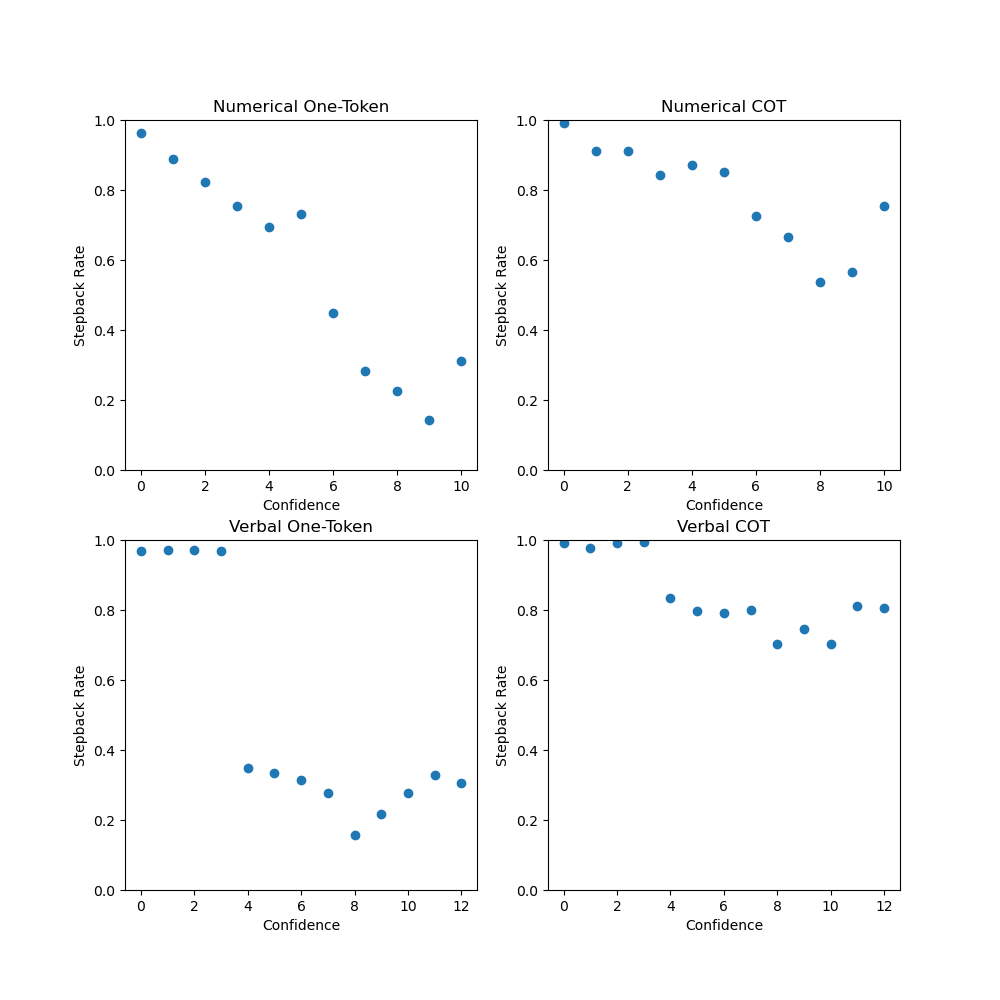
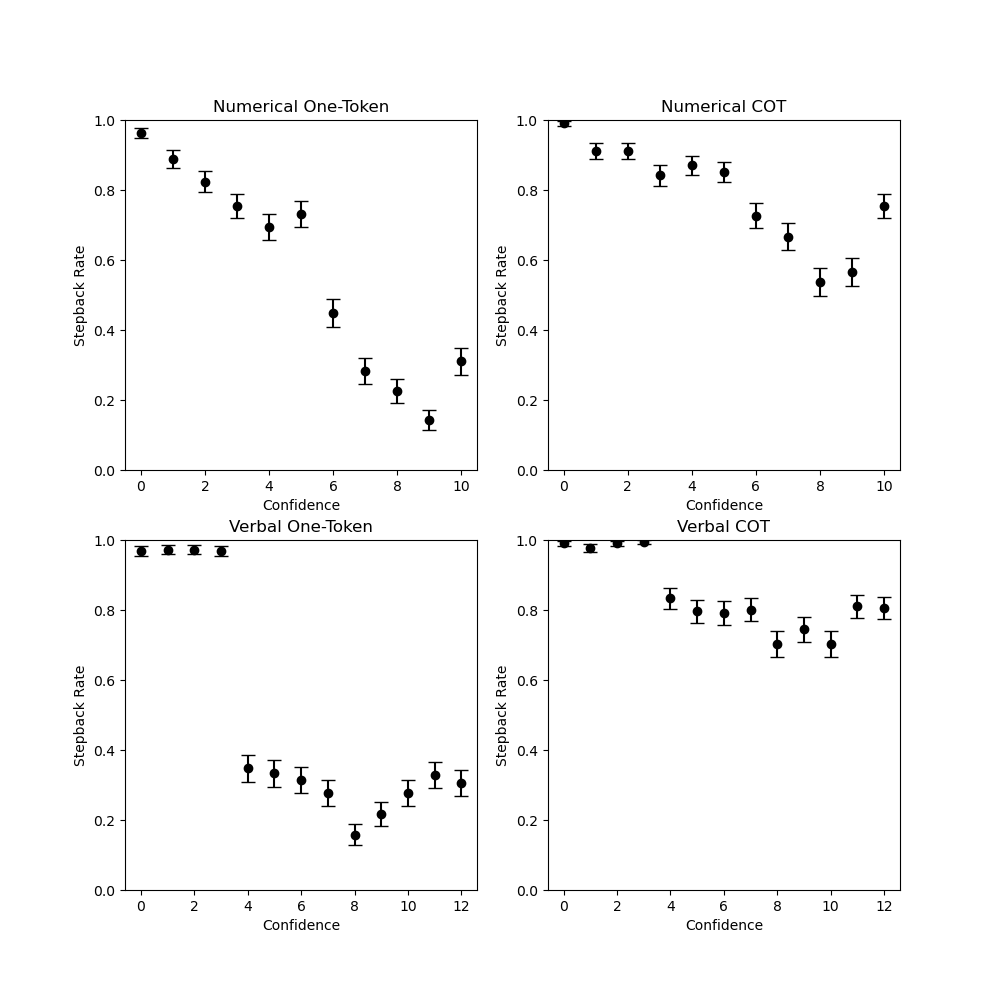
confidence intervals for weird behavior, hacky magic numbers tho

diff --git a/cpc_validation_figs.py b/cpc_validation_figs.py
@@ -1,4 +1,5 @@
 import pandas as pd
+import numpy as np
 import matplotlib.pyplot as plt
 
 df_numerical = pd.read_csv('cpc_validation_results_numerical.csv')
@@ -8,7 +9,7 @@ df_verbal = pd.read_csv('cpc_validation_results_verbal.csv')
 
 df_numerical.columns = ['context', 'confidence', 'one-token', 'cot']
 df_verbal.columns = ['context', 'confidence', 'one-token', 'cot']
-numerical_onetoken = df_numerical.groupby('confidence')[['one-token']].mean()
+numerical_onetoken = df_numerical.groupby('confidence')['one-token'].mean()
 numerical_cot = df_numerical.groupby('confidence')['cot'].mean()
 verbal_onetoken = df_verbal.groupby('confidence')['one-token'].mean()
 verbal_cot = df_verbal.groupby('confidence')['cot'].mean()
@@ -20,13 +21,16 @@ for row in axs:
         ax.set_ylabel('Stepback Rate')
         ax.set_ylim([0, 1])
 
-axs[0,0].scatter(numerical_onetoken.index, numerical_onetoken)
+def make_errs(data):
+    return np.sqrt(data*(1-data)/len(data))
+
+axs[0,0].errorbar(numerical_onetoken.index, numerical_onetoken, yerr=np.sqrt(numerical_onetoken*(1-numerical_onetoken)/150), fmt='o', linestyle='', capsize=5, c='k')
 axs[0,0].set_title('Numerical One-Token')
-axs[0,1].scatter(numerical_cot.index, numerical_cot)
+axs[0,1].errorbar(numerical_cot.index, numerical_cot, yerr=np.sqrt(numerical_cot*(1-numerical_cot)/150), fmt='o', linestyle='', capsize=5, c='k')
 axs[0,1].set_title('Numerical COT')
-axs[1,0].scatter(verbal_onetoken.index, verbal_onetoken)
+axs[1,0].errorbar(verbal_onetoken.index, verbal_onetoken, yerr=np.sqrt(verbal_onetoken*(1-verbal_onetoken)/150), fmt='o', linestyle='', capsize=5, c='k')
 axs[1,0].set_title('Verbal One-Token')
-axs[1,1].scatter(verbal_cot.index, verbal_cot)
+axs[1,1].errorbar(verbal_cot.index, verbal_cot, yerr=np.sqrt(verbal_cot*(1-verbal_cot)/150), fmt='o', linestyle='', capsize=5, c='k')
 axs[1,1].set_title('Verbal COT')
 plt.savefig('cpc_validation_fig1.png')
 
